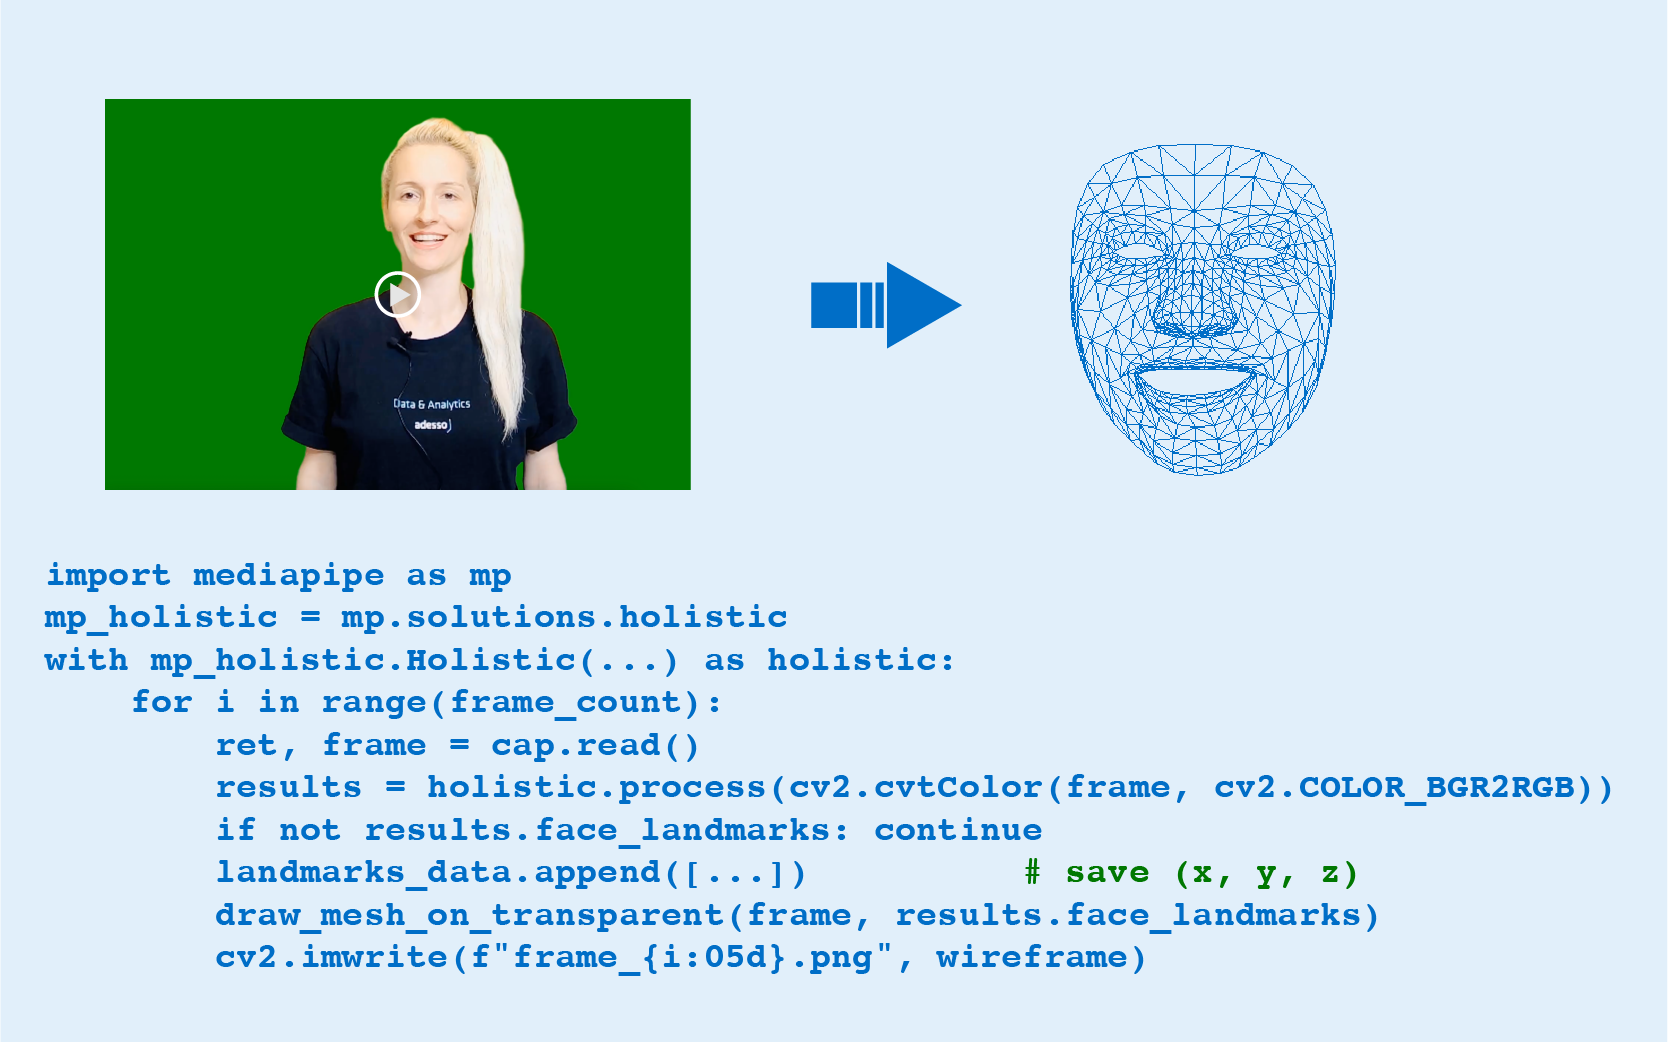
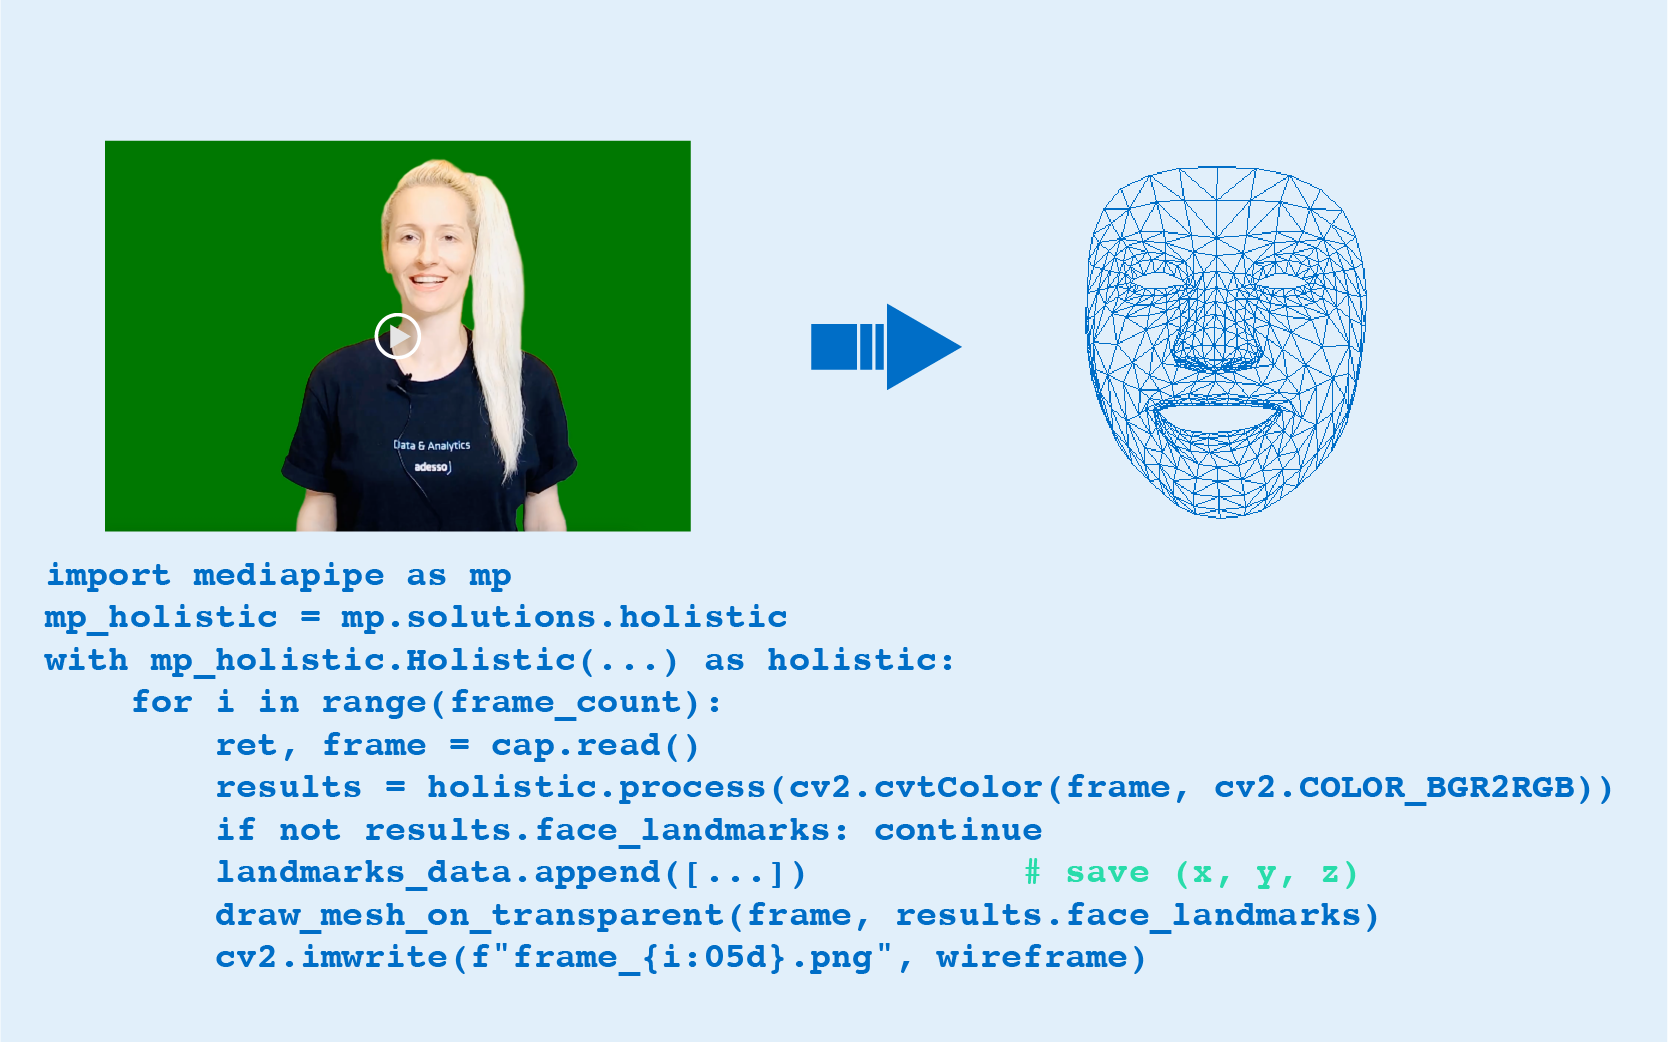
Updates

diff --git a/README.md b/README.md
@@ -34,7 +34,7 @@ This project demonstrates several AI techniques working together:
 </div>
 
 <br>Built a multi-agent AI system using <img src="https://api.iconify.design/simple-icons:langgraph.svg?color=%231C3C3C" alt="LangGraph" height="12" /> **LangGraph** that:
-- Intelligently routes questions to appropriate data sources (<img src="https://api.iconify.design/logos:linkedin-icon.svg" alt="LinkedIn" height="12" /> LinkedIn, <img src="https://api.iconify.design/logos:github-icon.svg" alt="GitHub" height="12" /> GitHub, <img src="https://api.iconify.design/logos:medium-icon.svg" alt="Medium" height="12" /> Medium)
+- Intelligently routes questions to appropriate data sources (<img src="https://api.iconify.design/logos:linkedin-icon.svg" alt="LinkedIn" height="12" /> [LinkedIn](https://de.linkedin.com/in/yauheniya-varabyova), <img src="https://api.iconify.design/logos:github-icon.svg" alt="GitHub" height="12" /> GitHub ([yauheniya-adesso](https://github.com/yauheniya-adesso) & [yauheniya-ai](https://github.com/yauheniya-ai)), <img src="https://api.iconify.design/logos:medium-icon.svg" alt="Medium" height="12" /> [Medium](https://medium.com/@yauheniya.ai))
 - Uses Retrieval-Augmented Generation (RAG) with vector search for accurate responses
 - Handles multi-language queries with automatic translation to English
 - Optimizes answers for natural text-to-speech output
